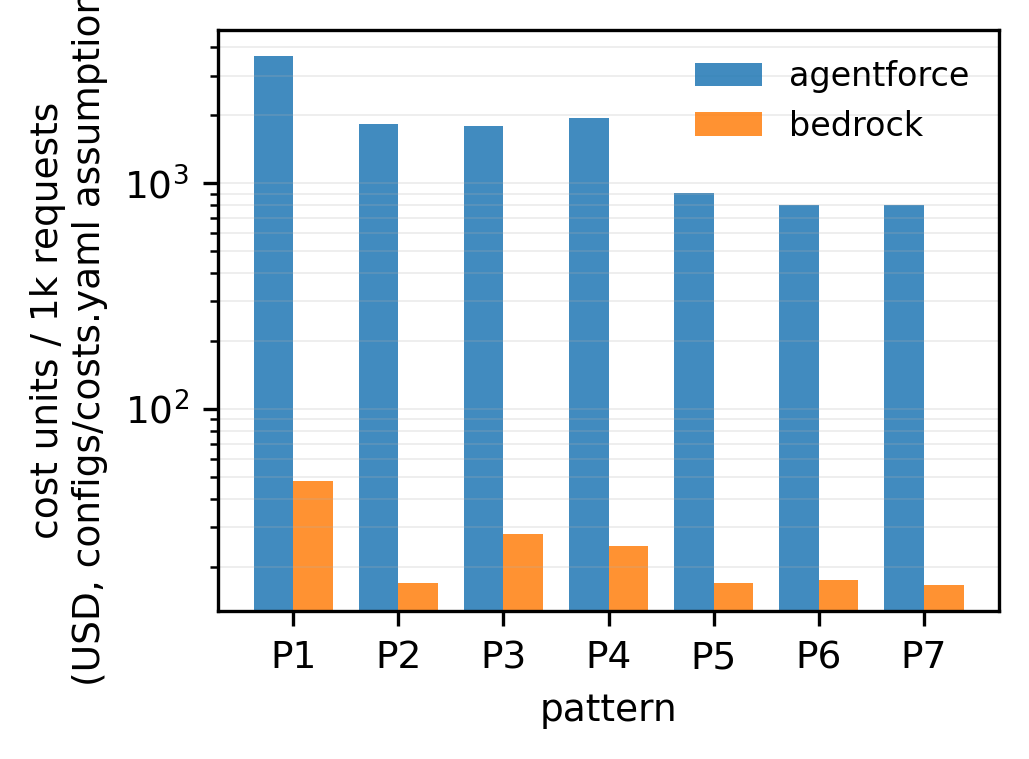
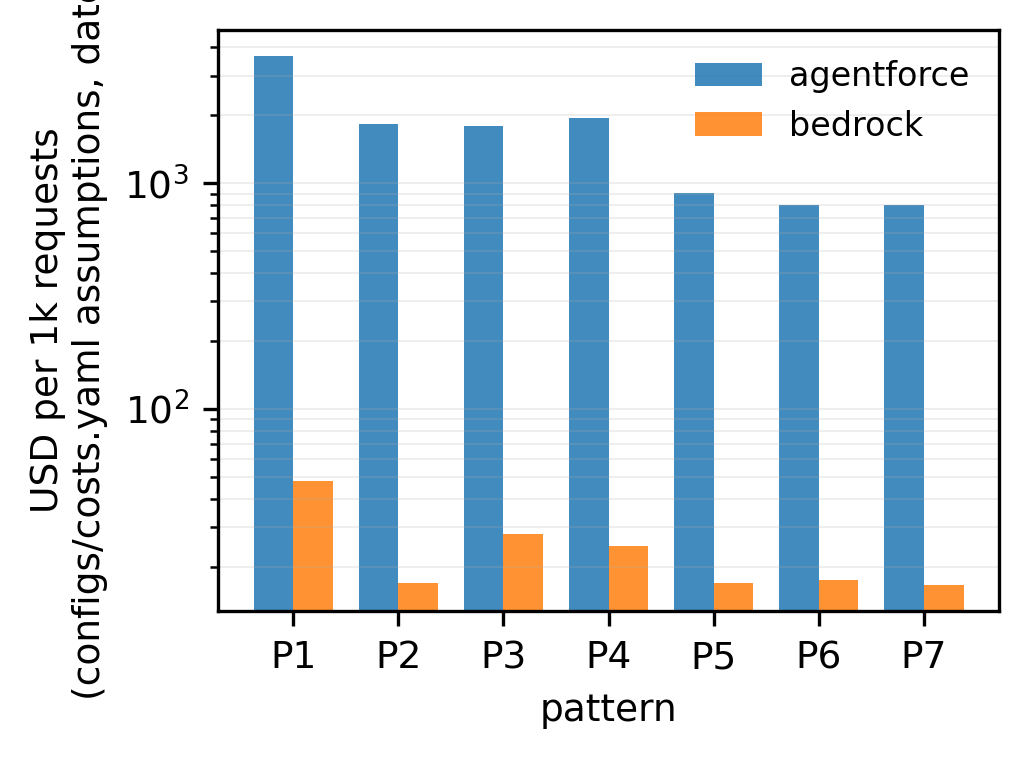
task 205: cost unit label, model_backend shared-dependency note, $2/conversation sensitivity caveat

Changed region(s): [[0.0311, 0.0, 0.1244, 0.9394]]

diff --git a/src/agentorch/study/figures_cost.py b/src/agentorch/study/figures_cost.py
@@ -53,7 +53,8 @@ def make_cost_per_1k(ledger: pd.DataFrame, out_path: Path) -> None:
     ax.set_xticks(range(len(PATTERN_ORDER)))
     ax.set_xticklabels(PATTERN_ORDER)
     ax.set_xlabel("pattern")
-    ax.set_ylabel("cost units / 1k requests\n(USD, configs/costs.yaml assumptions)")
+    # Task 205: exactly ONE unit on the axis -- no "cost units"/"USD" mix.
+    ax.set_ylabel("USD per 1k requests\n(configs/costs.yaml assumptions, dated)")
     ax.set_yscale("log")
     ax.grid(True, axis="y", which="both", alpha=0.25, linewidth=0.4)
     ax.legend(frameon=False)
@@ -77,6 +78,9 @@ def main(argv: list[str] | None = None) -> int:
     ledger = aggregate_ledger(cost)
     make_cost_per_1k(ledger, out / "cost_per_1k.png")
     print(f"wrote {out / 'cost_per_1k.png'} and {out / 'cost_ledger.csv'}")
+    print("note: the Agentforce-vs-Bedrock cost gap is dominated by the "
+          "$2/conversation Agentforce assumption (configs/costs.yaml) "
+          "[HUMAN: confirm]")
     return 0
 
 

diff --git a/src/agentorch/study/figures_fault.py b/src/agentorch/study/figures_fault.py
@@ -93,6 +93,15 @@ def make_fault_matrix(faults: pd.DataFrame, out_path: Path) -> None:
               Patch(facecolor="#d62728", label="propagated"),
               Patch(facecolor="#d9d9d9", label="not exercised")]
     fig.legend(handles=legend, loc="upper right", frameon=False, fontsize=8)
+    # Task 205: model_backend is a shared critical-path dependency of
+    # EVERY pattern, so a hard model_backend fault propagates across
+    # most patterns; fault-isolation DIFFERENTIATION is carried by the
+    # orchestration-specific components.
+    fig.suptitle("model_backend is on every pattern's critical path "
+                 "(hard faults propagate broadly);\n"
+                 "isolation differentiation is carried by event_bus, "
+                 "gateway/tool, memory_store, human_queue, bridge",
+                 fontsize=7, y=0.995)
     fig.tight_layout()
     fig.savefig(out_path, bbox_inches="tight")
     plt.close(fig)

diff --git a/docs/manuscript/results_section.md b/docs/manuscript/results_section.md
@@ -158,9 +158,21 @@ rows, rounded to 4 decimals). The human reviewer's time in P6 is NOT billed as p
 cost; it is an out-of-scope operational cost (noted in
 configs/costs.yaml) and appears only as latency. Per-scenario
 cost-per-request values appear in Table 3's cost_per_request column
-(trace: figures/table3.csv col cost_per_request).
+(trace: figures/table3.csv col cost_per_request). Sensitivity caveat:
+the absolute Agentforce-versus-Bedrock cost gap (about two orders of
+magnitude) is dominated by the $2/conversation Agentforce pricing
+assumption (configs/costs.yaml, dated), not by topology; only the
+WITHIN-platform pattern ordering is robust to that assumption
+[HUMAN: confirm].
 
 ### E. Fault-Isolation Results
+
+Because the model backend sits on every pattern's critical path, a
+hard model_backend fault propagates across most patterns; the
+fault-isolation DIFFERENTIATION among patterns is carried by the
+orchestration-specific components (event_bus, gateway/tool,
+memory_store, human_queue, bridge), and the matrix should be read
+column-wise with that in mind (the figure caption states the same).
 
 Fig. fault_matrix.png classifies each of the 336 campaign cells as
 PROPAGATED (failures spread to requests that never traversed the
